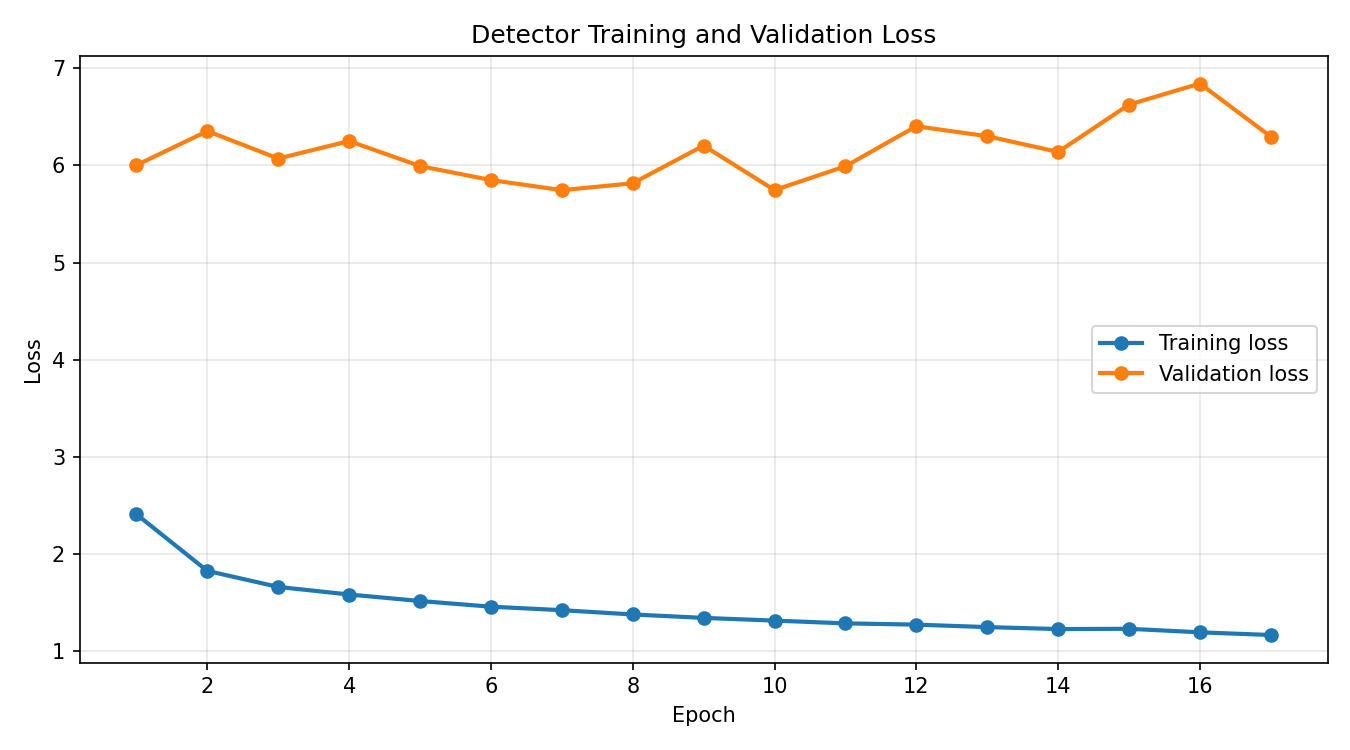
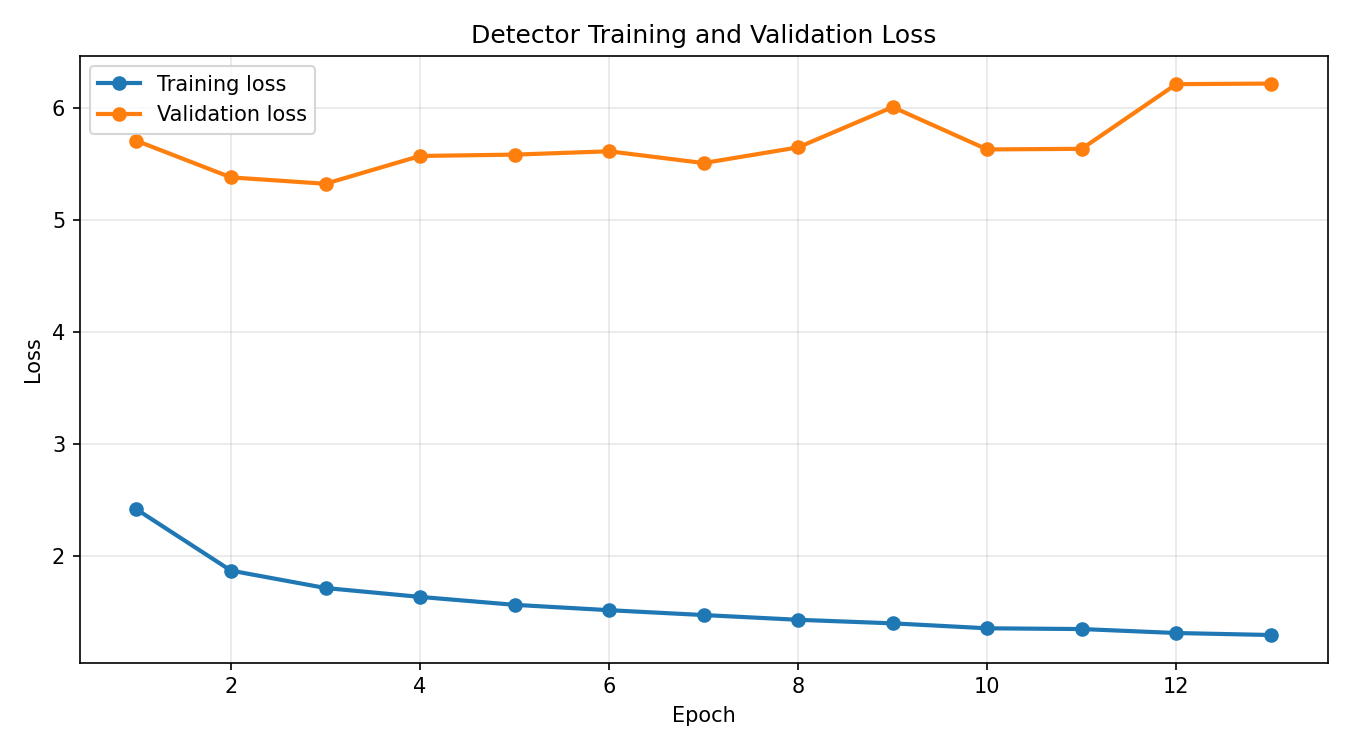
960 best performance to date

diff --git a/src/adas_perception/traffic_light/detector/trainer.py b/src/adas_perception/traffic_light/detector/trainer.py
@@ -126,7 +126,7 @@ class _COCODetectionDataset(Dataset):
         augment: bool = True,
         positive_images_only: bool = False,
         mosaic_prob: float = 1.0,
-        scale_jitter_range: Tuple[float, float] = (0.5, 1.5),
+        scale_jitter_range: Tuple[float, float] = (0.8, 1.2),
         hsv_hue: float = 0.015,
         hsv_sat: float = 0.7,
         hsv_val: float = 0.4,
